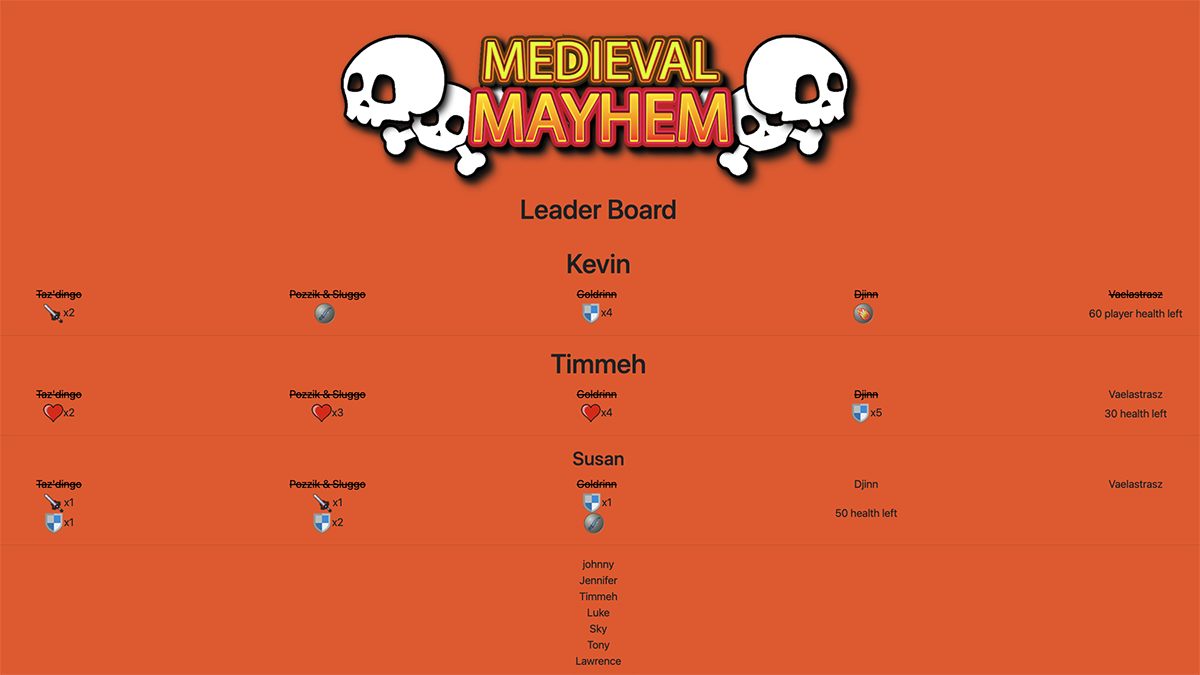
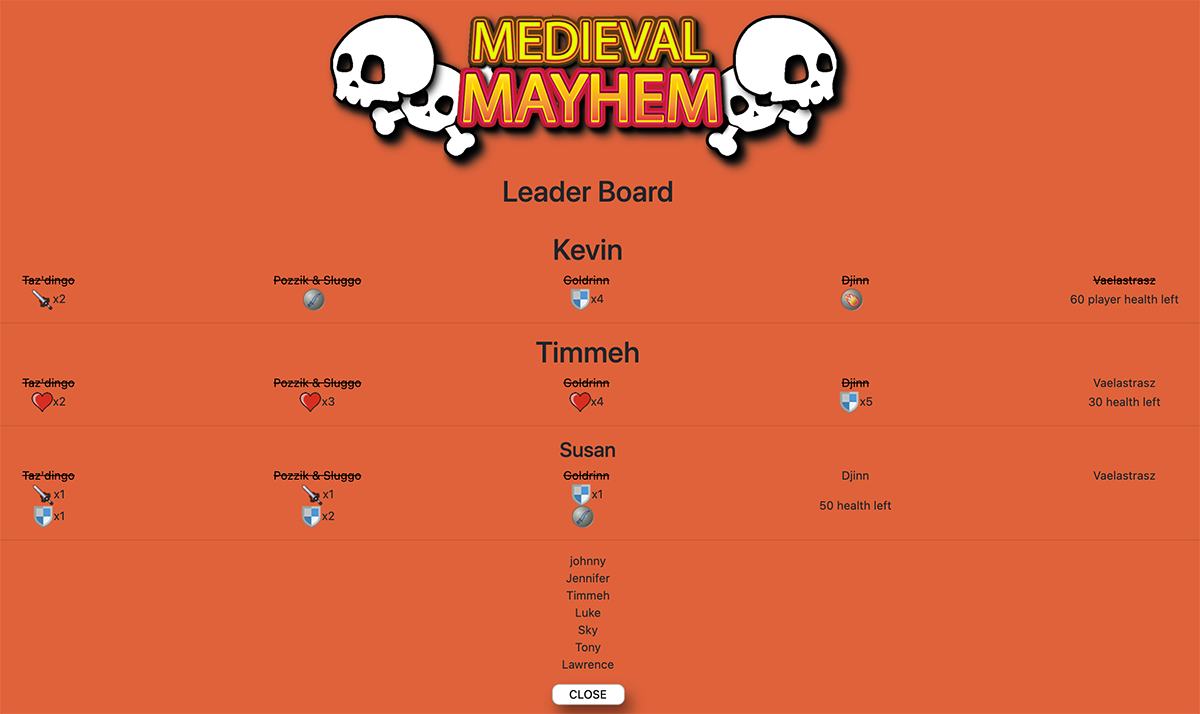
redid more graphics and made some css adjustments

diff --git a/css/style.css b/css/style.css
@@ -67,37 +67,48 @@ body {
     grid-row: 1;
     padding-top: 15px; 
     z-index:1000;
-    font-size: 36px;
+    font-size: 53px;
     font-family: 'Boogaloo', cursive;
     text-shadow: 1px 2px 3px #4d4d4d; 
     color: #222;
-    transform: translateY(-20px);
+    margin-top: 60px;
+    transform: translateY(30px);
+    transform: translateX(40px);
   }
   #bossNameDiv {
     grid-column: 6 / 7;
     grid-row: 1;
     padding-top: 15px; 
     z-index:1000;
-    font-size: 36px;
+    font-size: 53px;
     font-family: 'Boogaloo', cursive;
     text-shadow: 1px 2px 3px #4d4d4d; 
     color: #222;
-    transform: translateY(-20px);
+    margin-top: 50px;
+    transform: translateY(30px);
+    transform: translateX(-60px);
   }
   #playerName {
       grid-column: 1 / 2;
       grid-row: 1;
-      transform: translateY(-20px);
+      transform: translateY(20px);
   }
   #gameTitle {
     grid-column: 2 / 6;
     grid-row: 1;
-    transform: translateY(90px);
+    transform: translateY(240px);
   }
   #enemyName {
     grid-column: 6 / 7;
     grid-row: 1;
-    transform: translateY(-20px);
+    margin-top: 30px;
+    transform: translateY(50px);
+    transform: translateX(-30%);
+    margin-right: 120px;
+    margin-left: -10%;
+  } 
+  .enemyPlate {
+    width: 200%;
   }
   #playerStats {
     grid-column: 2 / 3;
@@ -151,7 +162,7 @@ body {
     text-shadow: 2px 3px 5px #716D6D;
     transform: translateX(-95px);
     transform: translateY(-40px);
-    margin-left: -80px;
+    margin-left: -10px;
     text-align: left;
     border: solid #BDBDBD 1px; 
     box-shadow: 8px 14px 20px rgba(0, 0, 0, 0.5)  ; 
@@ -200,8 +211,14 @@ body {
     filter: drop-shadow(8px 8px 8px #222);
   }
   .playerNamePlate {
-    width: 90%;
-    z-index:-1000;
+    width:130%;
+    z-index:1000;
+    -webkit-filter: drop-shadow(5px 5px 5px 5px #222);
+    filter: drop-shadow(5px 5px 5px #222);
+  }
+  .enemyNamePlate {
+    width:185%;
+    z-index:1000;
     -webkit-filter: drop-shadow(5px 5px 5px 5px #222);
     filter: drop-shadow(5px 5px 5px #222);
   }

diff --git a/js/app.js b/js/app.js
@@ -951,7 +951,7 @@ $('.fancy').click(function(){
 //  updates stats on the bosses
 boss.enemy[0].name='Taz\'dingo';
 boss.enemy[1].weapon2 = true;
-boss.enemy[1].name = 'Pozzik & Sluggo';
+boss.enemy[1].name = 'Pozik & Sluggo';
 boss.enemy[1].damage = 30;
 boss.enemy[1].health = 100;
 boss.enemy[1].armor = 5;
@@ -1137,11 +1137,11 @@ let changeStage = function() {
                 // .css('width', '100%');
                 .css('no-repeat', 'center', 'center', 'fixed', 'background-size: cover')
         }else if (randStage >= .5 &&  randStage < .75){
-            $body.css('background-image','url(./images/game_background_31.png)')
+            $body.css('background-image','url(./images/game_background_21.png)')
                 // .css('width', '100%');
                 .css('no-repeat', 'center', 'center', 'fixed', 'background-size: cover')
         }else if (randStage >= .75 &&  randStage <= 1){
-            $body.css('background-image','url(./images/game_background_31.png)')
+            $body.css('background-image','url(./images/game_background_11.png)')
                 // .css('width', '100%');
                 .css('no-repeat', 'center', 'center', 'fixed', 'background-size: cover')
         }

diff --git a/index.html b/index.html
@@ -342,13 +342,13 @@
       </span>
     </div>
     <div id='playerName'>
-      <img class='playerNamePlate' src="./images/charactername.png" />
+      <img class='playerNamePlate' src="./images/charactername2.png" />
     </div>
     <div id='gameTitle'>
       <img id='titleLogo' src="./images/logo7.png" />
     </div>
     <div id='enemyName'>
-      <img class='playerNamePlate' src="./images/charactername.png" />
+      <img class='enemyNamePlate enemyPlate' src="./images/charactername2.png" />
     </div>
     <div id='playerDamageDiv'>
       <span class='emptyDot'>.

diff --git a/README.md b/README.md
@@ -98,7 +98,7 @@ I want an RPG feel to the game so that you can enhance the character various way
 ####  Game Screen Shots
 
 <img src="./images/screen1.png" width="80%" >
-<img src="./images/screen2.png" width="80%" >
+<img src="./images/screen2.jpg" width="80%" >
 
 ## Challenges:
 
